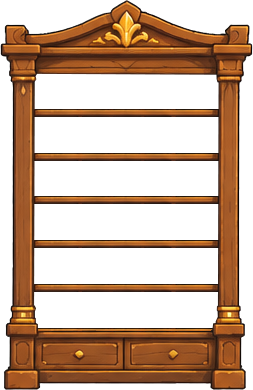
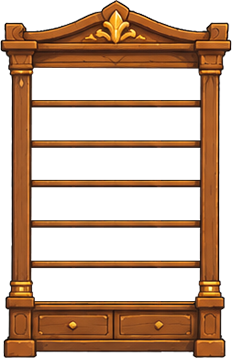
fix

diff --git a/src/game/scenes/Game.ts b/src/game/scenes/Game.ts
@@ -92,7 +92,7 @@ export class Game extends Scene {
       const bookcaseBg = this.add.image(bookcaseCenterX, centerShelvesY, "bookcase");
       bookcaseBg.x -= 7;
       bookcaseBg.y -= 10;
-      bookcaseBg.setScale(0.92).setDepth(0); // 🌟 Убираем на самый задний план
+      bookcaseBg.setDepth(0); // 🌟 Убираем на самый задний план
 
       const bookcase = new Bookcase(
         this,
